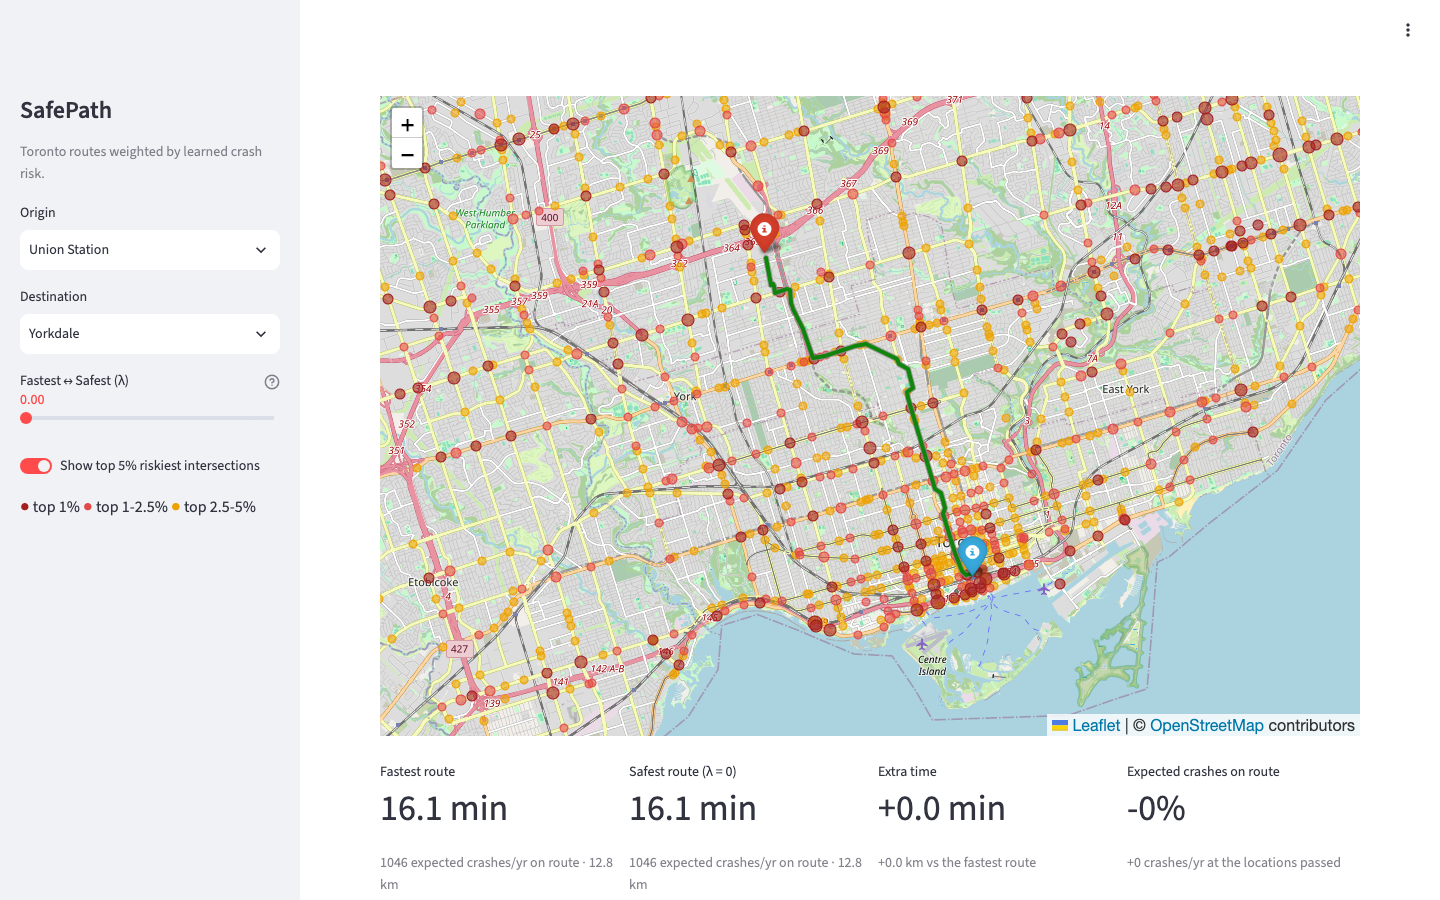
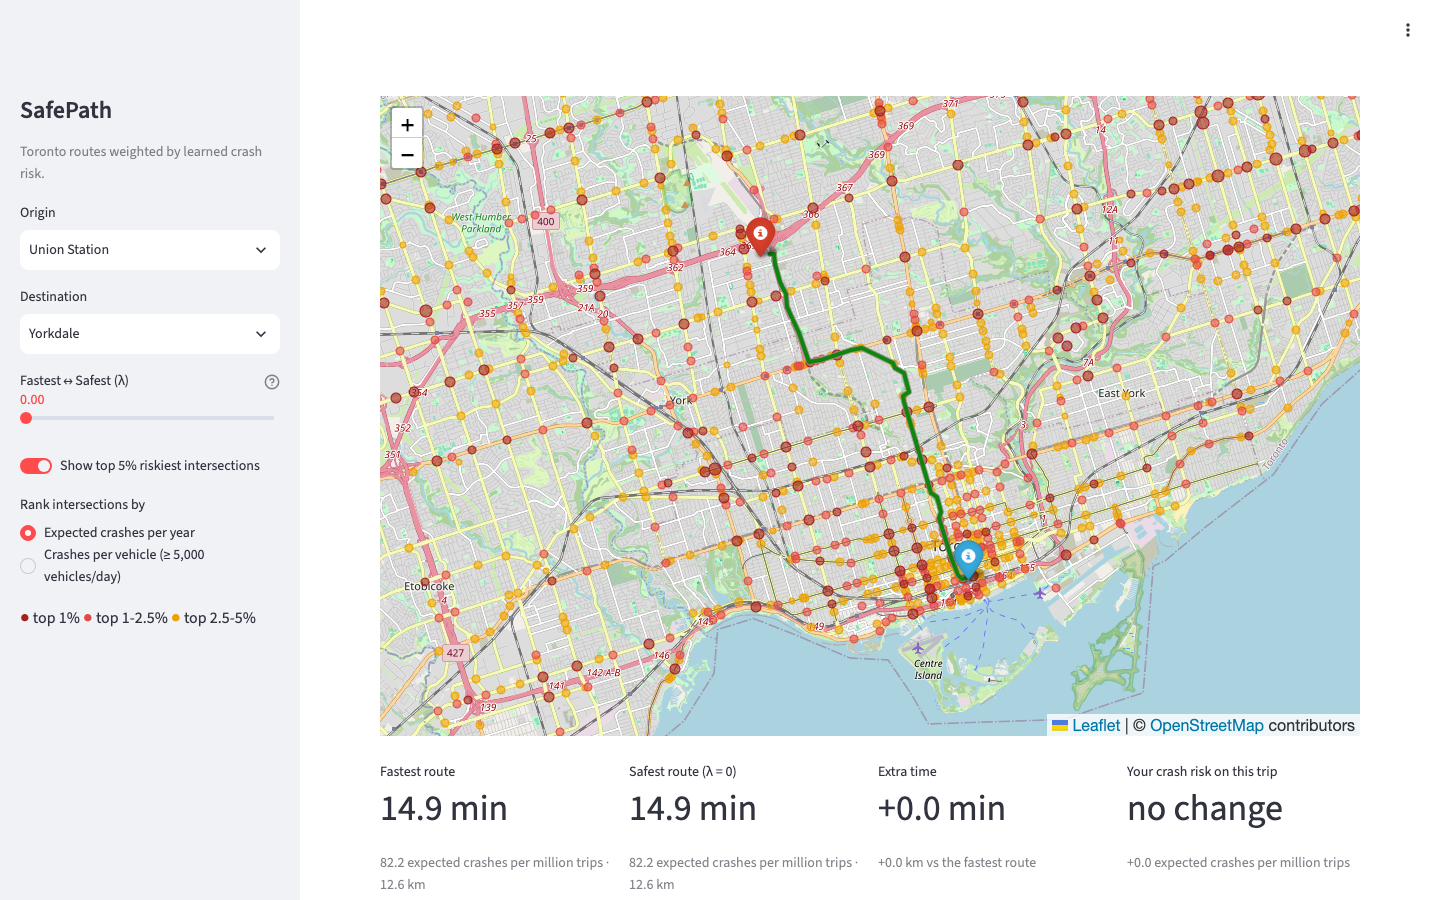
Show per-trip risk in the app and let the risk layer rank by crashes per vehicle

diff --git a/src/safepath/app/streamlit_app.py b/src/safepath/app/streamlit_app.py
@@ -6,7 +6,15 @@ import folium
 import streamlit as st
 from streamlit_folium import st_folium
 
-from safepath.app.data import RISK_BANDS, build_router, risk_layer, route_latlon, to_wgs84
+from safepath.app.data import (
+    LAYER_MEASURES,
+    LAYER_MIN_AADT,
+    RISK_BANDS,
+    build_router,
+    risk_layer,
+    route_latlon,
+    to_wgs84,
+)
 from safepath.routing import PRESETS, fastest_route, route_stats, safest_route
 
 MAP_CLICK = "Click on the map"
@@ -23,25 +31,28 @@ def get_router():
 
 
 @st.cache_data(show_spinner=False)
-def get_risk_layer():
-    return risk_layer()
+def get_risk_layer(measure: str):
+    return risk_layer(measure=measure)
 
 
-def add_risk_layer(fmap: folium.Map) -> None:
-    layer = folium.FeatureGroup(name="Top 5% riskiest intersections")
-    for r in get_risk_layer().itertuples():
-        fallback = "yes (proxy, static-only estimate)" if r.is_proxy_fallback else "no"
+def add_risk_layer(fmap: folium.Map, measure: str) -> None:
+    label = LAYER_MEASURES[measure][1]
+    layer = folium.FeatureGroup(name=f"Top 5% by {label}")
+    for r in get_risk_layer(measure).itertuples():
+        note = "<br>proxy: SPF estimate, own counts misattributed" if r.is_proxy_fallback else ""
         folium.CircleMarker(
             (r.lat, r.lon),
-            radius=2.5 + 0.35 * r.risk**0.5,
+            radius=2.5 + 4 * r.size**0.5,
             color=r.color,
             weight=1,
             fill=True,
             fill_color=r.color,
             fill_opacity=0.6,
             tooltip=folium.Tooltip(
-                f"<b>{r.street_names}</b><br>{r.risk:.1f} predicted crashes/yr ({r.band})"
-                f"<br>proxy fallback: {fallback}"
+                f"<b>{r.street_names}</b> ({r.band} by {label})"
+                f"<br>{r.risk:.1f} expected crashes/yr"
+                f"<br>{r.risk_per_mev:.2f} crashes per million entering vehicles"
+                f"<br>{r.entering_aadt:,.0f} vehicles enter per day{note}"
             ),
         ).add_to(layer)
     layer.add_to(fmap)
@@ -51,33 +62,42 @@ def stats_card(fast, safe, lam: float) -> None:
     s = route_stats(safe, fast)
     c1, c2, c3, c4 = st.columns(4)
     c1.metric("Fastest route", f"{fast.minutes:.1f} min")
-    c1.caption(f"{fast.risk:.0f} expected crashes/yr on route · {fast.km:.1f} km")
+    c1.caption(f"{fast.risk:.1f} expected crashes per million trips · {fast.km:.1f} km")
     c2.metric(f"Safest route (λ = {lam:g})", f"{safe.minutes:.1f} min")
-    c2.caption(f"{safe.risk:.0f} expected crashes/yr on route · {safe.km:.1f} km")
+    c2.caption(f"{safe.risk:.1f} expected crashes per million trips · {safe.km:.1f} km")
     c3.metric("Extra time", f"+{s['extra_minutes']:.1f} min")
     c3.caption(f"{safe.km - fast.km:+.1f} km vs the fastest route")
-    c4.metric("Expected crashes on route", f"-{s['risk_reduction_pct']:.0f}%")
-    c4.caption(f"{safe.risk - fast.risk:+.0f} crashes/yr at the locations passed")
+    cut = s["risk_reduction_pct"]
+    c4.metric("Your crash risk on this trip", f"-{cut:.0f}%" if round(cut) > 0 else "no change")
+    c4.caption(f"{safe.risk - fast.risk:+.1f} expected crashes per million trips")
 
 
 HOW_IT_WORKS = """
-**Risk model.** Toronto Police collision records (2014-2025) are snapped to OpenStreetMap
-intersections. A LightGBM Poisson model predicts each intersection's 2026 crash count from its
-last three years of crashes and its road features (approach classes, legs, signals, transit,
-nearby activity). Intersections whose recorded crashes really belong to a mall parking lot or
-an expressway use a features-only estimate instead. Road segments carry a per-km rate by road
-class; motorways get a base rate estimated from expressway crashes.
+**Risk is per vehicle.** Each route's risk is the expected number of crashes for one driver
+making the trip, shown per million trips. At an intersection that is its Empirical Bayes
+expected crashes per year (a negative binomial Safety Performance Function on traffic
+volume and road features, blended with its last five years of Toronto Police crashes)
+divided by the vehicles entering it each year. On a road segment it is a crash rate per
+vehicle-km times the length. Traffic volumes come from City of Toronto counts plus a model
+for uncounted roads.
 
-**Routing.** Each road edge costs `travel time + λ · k · risk`, where risk is expected crashes
-per year at the intersection the edge enters plus along the segment. `k` is set so that at
-λ = 1 a typical route's risk weighs as much as its travel time. λ = 0 is the fastest route.
+**Highways.** The 401, 400, 404, 409, 427 and QEW are patrolled by the OPP, so Toronto
+Police data barely sees their crashes; they use the Ministry of Transportation's own
+collision rates per vehicle-km. Toronto Police records many Gardiner and DVP crashes at the
+surface intersections beside or under them; crashes there above what the model expects are
+moved back to the expressway.
 
-**Limitations.** Risk is where crashes happen, not a per-vehicle rate: there is no traffic
-volume term yet, so busy roads look risky partly because they are busy. Most 400-series
-highways (401, 427, 400, 404) are patrolled by the OPP, not Toronto Police, so their crashes
-are undercounted and safer routes lean on them; safer routes also cut through residential
-streets. Travel times are free-flow. Locations are police-reported and intersection-snapped,
-and road features describe today's OpenStreetMap, not past years.
+**Routing.** Each road edge costs `travel time + λ · k · risk`. `k` is set so that at
+λ = 1 a typical route's risk weighs as much as its travel time; λ = 0 is the fastest route.
+U-turns cost an extra minute.
+
+**Limitations.** Per-vehicle routing minimises your own risk, not everyone's: it can still
+send traffic through local streets when they are safer per vehicle, which moves risk onto
+the people who live and walk there. Highway rates rest on the assumption that MTO and
+Toronto Police crash records are comparable (routing behaviour holds when they are halved
+or doubled). Travel times are free-flow, which flatters long highway detours. Volumes on
+uncounted roads are modelled (typical error 20-45%). Locations are police-reported and
+intersection-snapped, and road features describe today's OpenStreetMap.
 """
 
 
@@ -126,7 +146,17 @@ def main() -> None:
     show_risk = st.sidebar.toggle(
         "Show top 5% riskiest intersections", value=_param("risk", "1") == "1"
     )
+    measure = "crashes"
     if show_risk:
+        measure = st.sidebar.radio(
+            "Rank intersections by",
+            list(LAYER_MEASURES),
+            index=list(LAYER_MEASURES).index(_param("layer", "crashes")),
+            format_func=lambda m: {
+                "crashes": "Expected crashes per year",
+                "rate": f"Crashes per vehicle (≥ {LAYER_MIN_AADT:,} vehicles/day)",
+            }[m],
+        )
         st.sidebar.markdown(
             " ".join(f"<span style='color:{c}'>●</span> {label}" for _, label, c in RISK_BANDS),
             unsafe_allow_html=True,
@@ -134,7 +164,7 @@ def main() -> None:
 
     fmap = folium.Map(location=TORONTO, zoom_start=11, tiles="OpenStreetMap")
     if show_risk:
-        add_risk_layer(fmap)
+        add_risk_layer(fmap, measure)
     routes = None
     if o and d:
         on, dn = router.nearest_node(*o), router.nearest_node(*d)

diff --git a/src/safepath/app/data.py b/src/safepath/app/data.py
@@ -46,27 +46,40 @@ def route_latlon(router: Router, route: Route, transformer: Transformer) -> list
     return [[float(a), float(b)] for a, b in zip(lat, lon, strict=True)]
 
 
-# Bands within the top 5% of intersections by predicted risk, darkest = riskiest.
+# Bands within the top 5% of intersections by the chosen measure, darkest = riskiest.
 RISK_BANDS = [(0.99, "top 1%", "#a3201f"), (0.975, "top 1-2.5%", "#e34948"),
               (0.95, "top 2.5-5%", "#eda100")]  # fmt: skip
+# The per-vehicle ranking only considers intersections with at least this entering AADT:
+# below it a handful of crashes over a small volume gives noisy, extreme rates.
+LAYER_MIN_AADT = 5_000
+LAYER_MEASURES = {
+    "crashes": ("risk", "expected crashes/yr"),
+    "rate": ("risk_per_mev", "crashes per million entering vehicles"),
+}
 
 
-def risk_layer(cfg: dict[str, Any] | None = None) -> pd.DataFrame:
-    """Top 5% riskiest intersections with lat/lon, OSM street names, and a quantile band."""
+def risk_layer(cfg: dict[str, Any] | None = None, measure: str = "crashes") -> pd.DataFrame:
+    """Top 5% riskiest intersections by expected crashes/yr ("crashes") or by crashes per
+    million entering vehicles ("rate", busy-enough intersections only), with lat/lon, OSM
+    street names, both measures, and a quantile band."""
     cfg = cfg or load_config()
+    column, _ = LAYER_MEASURES[measure]
     processed = Path(cfg["paths"]["processed_dir"])
     risk = pd.read_parquet(processed / INTERSECTION_RISK)
     inter = pd.read_parquet(
         processed / INTERSECTIONS, columns=["intersection_id", "x", "y", "street_names"]
     )
     df = risk.merge(inter, on="intersection_id")
-    cuts = {q: df["risk"].quantile(q) for q, _, _ in RISK_BANDS}
-    top = df[df["risk"] >= cuts[0.95]].copy()
+    if measure == "rate":
+        df = df[df["entering_aadt"] >= LAYER_MIN_AADT]
+    cuts = {q: df[column].quantile(q) for q, _, _ in RISK_BANDS}
+    top = df[df[column] >= cuts[0.95]].copy()
     top["band"], top["color"] = RISK_BANDS[-1][1], RISK_BANDS[-1][2]
     for q, label, color in reversed(RISK_BANDS[:-1]):
-        sel = top["risk"] >= cuts[q]
+        sel = top[column] >= cuts[q]
         top.loc[sel, "band"], top.loc[sel, "color"] = label, color
     lon, lat = to_wgs84(cfg["graph"]["crs"]).transform(top["x"].to_numpy(), top["y"].to_numpy())
     top["lat"], top["lon"] = lat, lon
     top["street_names"] = top["street_names"].replace("", "(unnamed)")
-    return top.sort_values("risk").reset_index(drop=True)
+    top["size"] = top[column] / top[column].max()
+    return top.sort_values(column).reset_index(drop=True)

diff --git a/tests/test_app_data.py b/tests/test_app_data.py
@@ -33,6 +33,9 @@ def test_risk_layer_keeps_top_five_percent_with_bands(tmp_path):
         {
             "intersection_id": range(n),
             "risk": np.arange(n, dtype=float),
+            # per-vehicle rate runs the other way; the first 100 are too quiet to rank
+            "risk_per_mev": np.arange(n, 0, -1, dtype=float),
+            "entering_aadt": np.r_[np.full(100, 1_000.0), np.full(n - 100, 20_000.0)],
             "is_proxy_fallback": [False] * n,
         }
     ).to_parquet(tmp_path / "intersection_risk.parquet")
@@ -51,3 +54,8 @@ def test_risk_layer_keeps_top_five_percent_with_bands(tmp_path):
     assert top["band"].value_counts().to_dict() == {"top 2.5-5%": 10, "top 1-2.5%": 6, "top 1%": 4}
     assert top.iloc[-1]["street_names"] == "(unnamed)"  # highest risk, empty name
     assert 43 < top["lat"].iloc[0] < 44 and -80 < top["lon"].iloc[0] < -79
+
+    by_rate = risk_layer(cfg, measure="rate")
+    assert len(by_rate) == 15  # top 5% of the 300 busy-enough intersections
+    assert by_rate["intersection_id"].min() >= 100  # quiet ones never enter the ranking
+    assert by_rate["intersection_id"].max() <= 114  # highest rates among the busy ones
